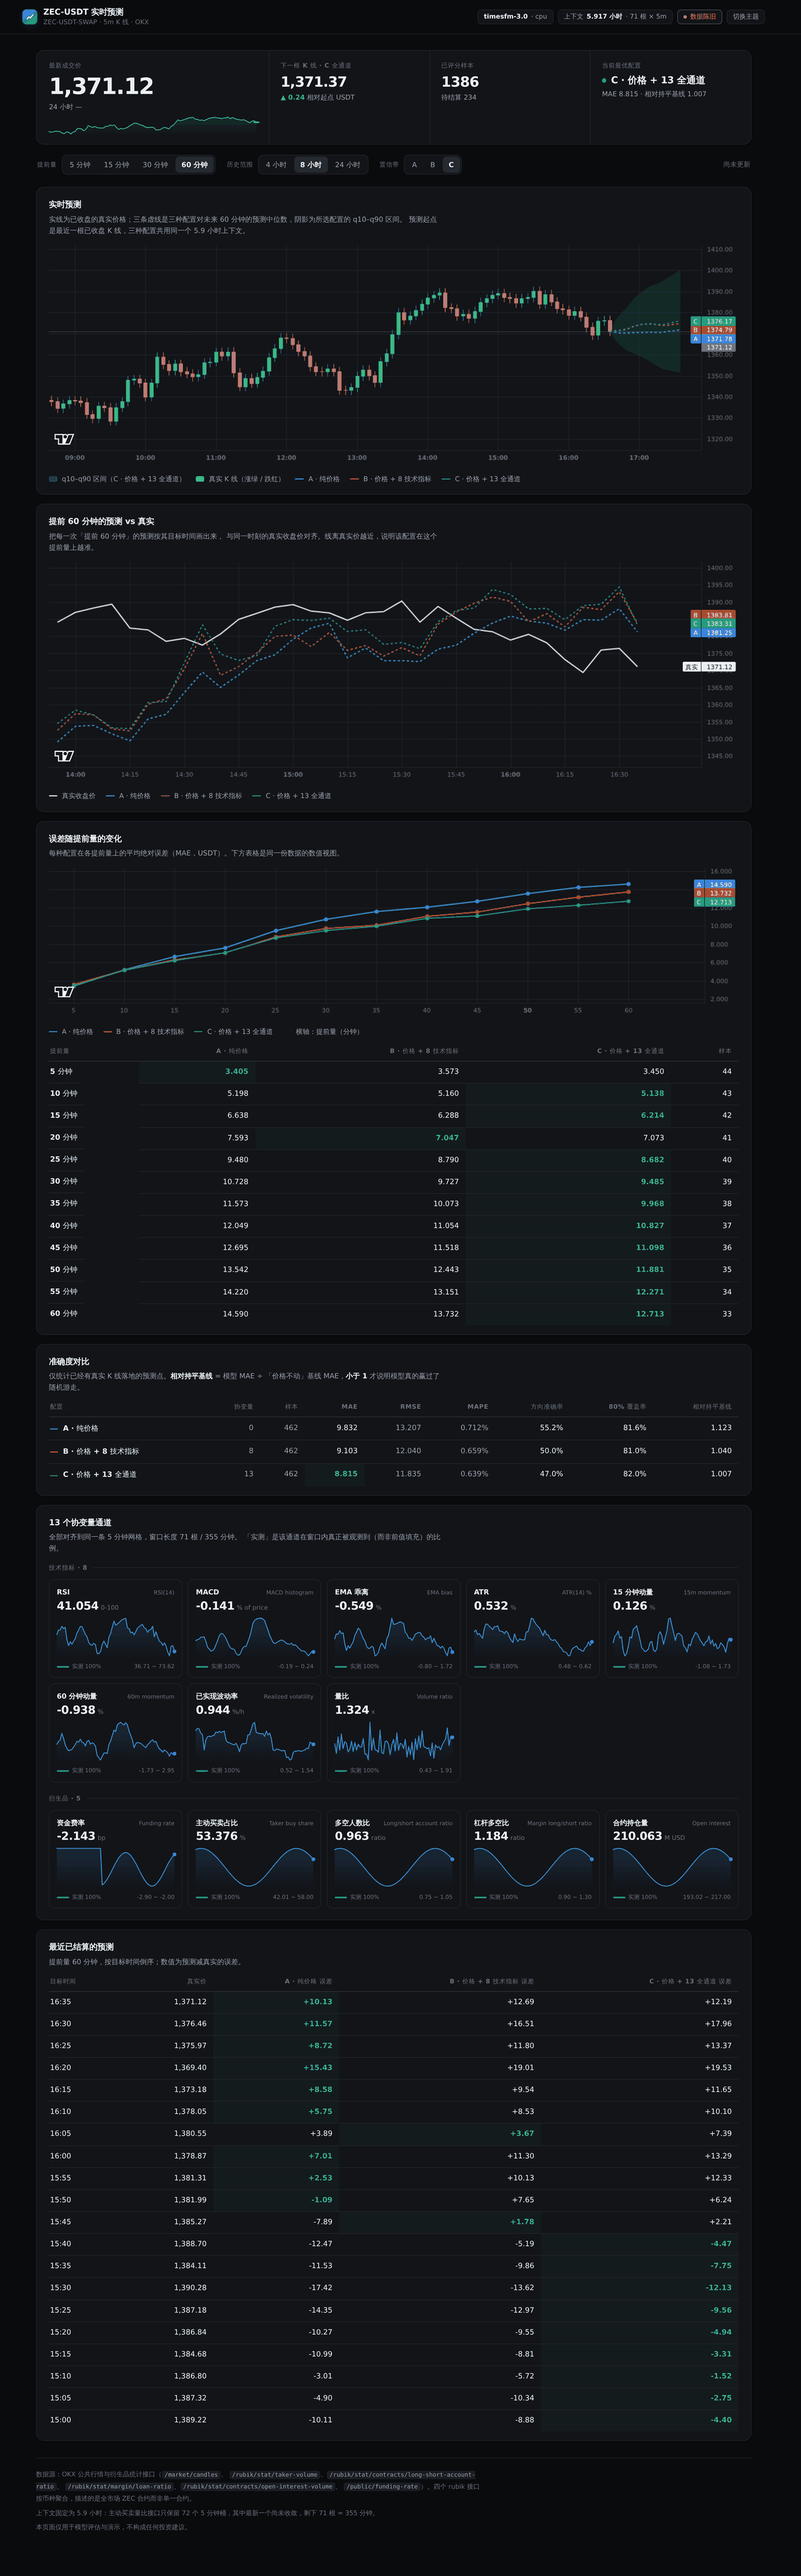
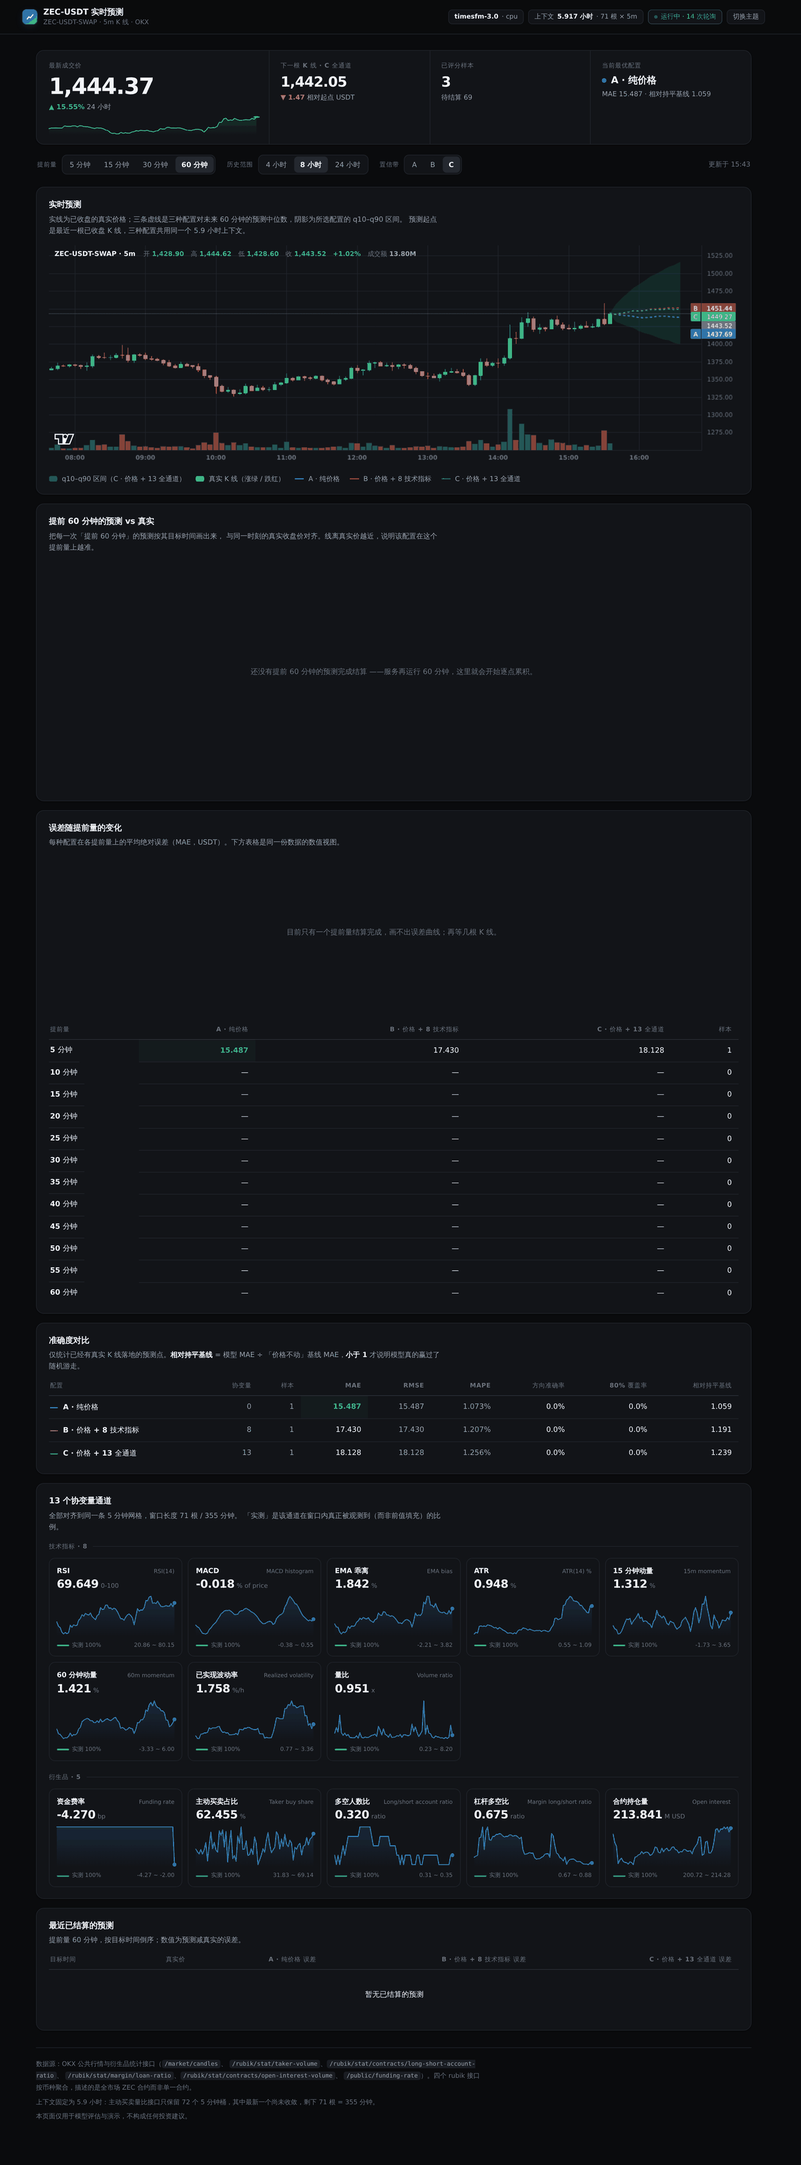
Make the live chart read like an exchange screen, on real market data
Adds what a trading screen carries beyond bare candles, and fixes what
cold start actually looks like.

Volume bars sit under the price on their own overlay scale (bottom 20%),
coloured by the bar's direction, so turnover reads against the candles
without sharing or distorting the price axis. An OHLC strip pinned over
the top-left of the plot tracks the crosshair - open / high / low / close,
percent change and turnover - and falls back to the newest bar when the
pointer leaves, which is what an exchange chart does.

Cold start needed two fixes, both found by finally running this against
real OKX data instead of the replay fixture:

- The predicted-vs-actual card rendered a blank 392px hole until the first
  forecast resolved, with the explanation as a small line underneath. The
  message is now centred in the plot and says what it is waiting for.
- With a single resolved lead time the error chart drew three flat lines
  across the plot, which reads as a result rather than as "not enough data
  yet". Below two points it now shows the waiting state instead.

The README screenshot is now a real one - live ZEC-USDT-SWAP, taken a few
minutes after start, so the accuracy panels are still filling. That is the
honest picture of a cold start, and the populated replay view is kept
alongside it behind a details block for readers who want to see the panels
full.

Verified against the live service: real candles, volume and all 13
[…]

diff --git a/timesfm3-usage/zec-realtime/static/index.html b/timesfm3-usage/zec-realtime/static/index.html
@@ -249,6 +249,29 @@
   .chartbox { position: relative; height: 392px; }
   .chartbox.short { height: 268px; }
   .plot { position: absolute; inset: 0; }
+  /* Cold start is the first thing a new reader sees, so an empty chart says
+     what it is waiting for instead of leaving a blank 392px hole. */
+  .plot-empty {
+    position: absolute; inset: 0; display: grid; place-items: center;
+    padding: 0 28px; text-align: center; line-height: 1.8;
+    color: var(--text-3); font-size: 13px;
+  }
+  .plot-empty[hidden] { display: none; }
+  /* Exchange-style OHLC readout pinned over the top-left of the plot. It
+     tracks the crosshair and falls back to the newest bar. */
+  .ohlc {
+    position: absolute; left: 10px; top: 6px; z-index: 5;
+    display: flex; flex-wrap: wrap; gap: 4px 12px; align-items: baseline;
+    font-size: 11.5px; color: var(--text-2); pointer-events: none;
+    font-variant-numeric: tabular-nums lining-nums;
+  }
+  .ohlc .pair { font-weight: 600; color: var(--text-1); font-size: 12px; margin-right: 2px; }
+  .ohlc .f { display: inline-flex; gap: 4px; }
+  .ohlc .f b { font-weight: 600; }
+  .ohlc .k { color: var(--text-3); font-weight: 500; }
+  .ohlc .up b, .ohlc .up { color: var(--good); }
+  .ohlc .down b, .ohlc .down { color: var(--critical); }
+  @media (max-width: 640px) { .ohlc { font-size: 10.5px; gap: 2px 8px; } }
 
   .legend { display: flex; flex-wrap: wrap; gap: 7px 18px; margin: 14px 0 2px; }
   .legend .item {
@@ -495,7 +518,11 @@
         <span id="horizonMin">60</span> 分钟的预测中位数，阴影为所选配置的 q10–q90 区间。
         预测起点是最近一根已收盘 K 线，三种配置共用同一个 5.9 小时上下文。</p>
     </div>
-    <div class="chartbox"><div id="liveChart" class="plot"></div><div class="tt" id="liveTT"></div></div>
+    <div class="chartbox">
+      <div id="liveChart" class="plot"></div>
+      <div class="ohlc" id="liveOHLC"></div>
+      <div class="tt" id="liveTT"></div>
+    </div>
     <div class="legend" id="liveLegend"></div>
   </section>
 
@@ -863,7 +890,90 @@ function attachTooltip(chart, boxId, rows, format, titleFormat) {
   });
 }
 
+/** Swaps a plot for a centred message, or back. */
+function setPlotEmpty(plotId, message) {
+  const host = document.getElementById(plotId);
+  if (!host) return;
+  const box = host.parentNode;
+  let note = box.querySelector(".plot-empty");
+  if (message) {
+    if (!note) {
+      note = document.createElement("div");
+      note.className = "plot-empty";
+      box.appendChild(note);
+    }
+    note.textContent = message;
+    note.hidden = false;
+    host.style.visibility = "hidden";
+  } else {
+    if (note) note.hidden = true;
+    host.style.visibility = "";
+  }
+}
+
 /* ------------------------------------------------------------ live chart -- */
+
+/** Formats turnover the way an exchange does: 1.2M rather than 1204312.44. */
+function fmtVolume(v) {
+  if (v == null || !isFinite(v)) return "—";
+  const abs = Math.abs(v);
+  if (abs >= 1e9) return (v / 1e9).toFixed(2) + "B";
+  if (abs >= 1e6) return (v / 1e6).toFixed(2) + "M";
+  if (abs >= 1e3) return (v / 1e3).toFixed(1) + "K";
+  return v.toFixed(0);
+}
+
+/** Paints the O/H/L/C strip over the plot. */
+function paintOhlc(bar, volumeValue) {
+  const host = document.getElementById("liveOHLC");
+  if (!host) return;
+  host.textContent = "";
+  if (!bar || bar.open === undefined) return;
+
+  const up = bar.close >= bar.open;
+  const cls = up ? "up" : "down";
+  const pct = bar.open ? (bar.close / bar.open - 1) * 100 : 0;
+
+  const pair = document.createElement("span");
+  pair.className = "pair";
+  const status = state.data && state.data.status;
+  pair.textContent = (status ? status.inst_id : "ZEC-USDT-SWAP")
+    + " · " + (status ? status.bar : "5m");
+  host.appendChild(pair);
+
+  for (const [key, value] of [["开", bar.open], ["高", bar.high],
+                              ["低", bar.low], ["收", bar.close]]) {
+    const f = document.createElement("span");
+    f.className = "f " + cls;
+    const k = document.createElement("span");
+    k.className = "k";
+    k.textContent = key;
+    const b = document.createElement("b");
+    b.textContent = fmtPrice(value);
+    f.append(k, b);
+    host.appendChild(f);
+  }
+
+  const change = document.createElement("span");
+  change.className = "f " + cls;
+  const cb = document.createElement("b");
+  cb.textContent = (pct >= 0 ? "+" : "") + pct.toFixed(2) + "%";
+  change.appendChild(cb);
+  host.appendChild(change);
+
+  if (volumeValue != null) {
+    const vol = document.createElement("span");
+    vol.className = "f";
+    const k = document.createElement("span");
+    k.className = "k";
+    k.textContent = "成交额";
+    const b = document.createElement("b");
+    b.textContent = fmtVolume(volumeValue);
+    vol.append(k, b);
+    host.appendChild(vol);
+  }
+}
+
 function buildLiveChart() {
   const host = document.getElementById("liveChart");
   const chart = LWC.createChart(host, withTickFormatter(chartOptions()));
@@ -880,6 +990,15 @@ function buildLiveChart() {
     priceLineStyle: LWC.LineStyle.Dotted,
     priceFormat: { type: "price", precision: 2, minMove: 0.01 },
   });
+  // Turnover sits on its own overlay scale in the bottom quarter, so it reads
+  // under the price without sharing - or distorting - the price axis.
+  const volume = chart.addSeries(LWC.HistogramSeries, {
+    priceFormat: { type: "volume" },
+    priceScaleId: "volume",
+    lastValueVisible: false, priceLineVisible: false,
+  });
+  volume.priceScale().applyOptions({ scaleMargins: { top: 0.8, bottom: 0 } });
+  chart.priceScale("right").applyOptions({ scaleMargins: { top: 0.08, bottom: 0.26 } });
   const lines = {};
   for (const c of configs()) {
     lines[c.id] = chart.addSeries(LWC.LineSeries, {
@@ -891,7 +1010,15 @@ function buildLiveChart() {
       priceFormat: { type: "price", precision: 2, minMove: 0.01 },
     });
   }
-  charts.live = { chart, band, candles, lines, fitted: false };
+  charts.live = { chart, band, candles, volume, lines, fitted: false };
+
+  // The readout follows the crosshair and falls back to the newest bar, which
+  // is what an exchange chart does when the pointer leaves the plot.
+  chart.subscribeCrosshairMove((param) => {
+    const bar = param.time ? param.seriesData.get(candles) : null;
+    const vol = param.time ? param.seriesData.get(volume) : null;
+    paintOhlc(bar, vol ? vol.value : null);
+  });
 
   attachTooltip(chart, "liveTT", () => {
     const rows = [{ series: candles, label: "真实收盘价", color: cssVar("--text-1") }];
@@ -914,6 +1041,11 @@ function renderLive() {
   h.candles.setData(bars.map((b) => ({
     time: toSec(b.ts), open: b.open, high: b.high, low: b.low, close: b.close,
   })));
+  h.volume.setData(bars.map((b) => ({
+    time: toSec(b.ts), value: b.volume_quote,
+    color: withAlpha(b.close >= b.open ? cssVar("--good") : cssVar("--critical"), 0.4),
+  })));
+  paintOhlc(bars[bars.length - 1], bars[bars.length - 1].volume_quote);
 
   const live = d.live || {};
   const origin = bars[bars.length - 1];
@@ -1007,14 +1139,13 @@ function renderTrack() {
       charts.track.actual.setData([]);
       for (const c of configs()) charts.track.lines[c.id].setData([]);
     }
+    setPlotEmpty("trackChart",
+      `还没有提前 ${leadMinutes()} 分钟的预测完成结算 ——`
+      + `服务再运行 ${leadMinutes()} 分钟，这里就会开始逐点累积。`);
     host.textContent = "";
-    const msg = document.createElement("div");
-    msg.className = "item static";
-    msg.textContent = `还没有提前 ${leadMinutes()} 分钟的预测完成结算，`
-      + `服务运行 ${leadMinutes()} 分钟后这里会开始出现数据。`;
-    host.appendChild(msg);
     return;
   }
+  setPlotEmpty("trackChart", null);
 
   const h = charts.track || buildTrackChart();
   h.actual.setData(stamps.map((t) => ({ time: toSec(t), value: byTs.get(t).actual })));
@@ -1069,18 +1200,35 @@ function buildMaeChart() {
 
 function renderMae() {
   const metrics = state.data.metrics || [];
+  const series = metrics.map((m) => m.by_step
+    .filter((s) => s.mae != null && isFinite(s.mae))
+    .map((s) => ({ time: s.minutes, value: s.mae })));
+  // One resolved lead time draws a flat line across the plot, which reads as a
+  // result rather than as "not enough data yet". Wait for a second point.
+  const longest = series.reduce((n, pts) => Math.max(n, pts.length), 0);
+
+  if (longest < 2) {
+    if (charts.mae) {
+      for (const c of configs()) charts.mae.lines[c.id].setData([]);
+    }
+    setPlotEmpty("maeChart", longest === 0
+      ? "还没有预测完成结算 —— 第一根 5 分钟 K 线收盘后，这里会开始出现曲线。"
+      : "目前只有一个提前量结算完成，画不出误差曲线；再等几根 K 线。");
+    document.getElementById("maeLegend").textContent = "";
+    renderStepTable();
+    return;
+  }
+  setPlotEmpty("maeChart", null);
+
   const h = charts.mae || buildMaeChart();
   let any = false;
-  for (const m of metrics) {
-    const series = h.lines[m.config_id];
-    if (!series) continue;
-    series.applyOptions({ visible: visible("mae", m.config_id) });
-    const points = m.by_step
-      .filter((s) => s.mae != null && isFinite(s.mae))
-      .map((s) => ({ time: s.minutes, value: s.mae }));
-    if (points.length) any = true;
-    series.setData(points);
-  }
+  metrics.forEach((m, i) => {
+    const line = h.lines[m.config_id];
+    if (!line) return;
+    line.applyOptions({ visible: visible("mae", m.config_id) });
+    if (series[i].length) any = true;
+    line.setData(series[i]);
+  });
   if (any && !h.fitted) { h.chart.timeScale().fitContent(); h.fitted = true; }
 
   renderLegend("maeLegend", metrics.map((m) => ({
@@ -1113,6 +1261,13 @@ function repaintCharts() {
         wickUpColor: cssVar("--good"), wickDownColor: cssVar("--critical"),
         priceLineColor: cssVar("--text-3"),
       });
+    }
+    if (h.volume && state.data) {
+      const bars = state.data.bars || [];
+      h.volume.setData(bars.map((b) => ({
+        time: toSec(b.ts), value: b.volume_quote,
+        color: withAlpha(b.close >= b.open ? cssVar("--good") : cssVar("--critical"), 0.4),
+      })));
     }
     if (h.actual) h.actual.applyOptions({ color: cssVar("--text-1") });
     if (h.lines) {

diff --git a/timesfm3-usage/zec-realtime/README.md b/timesfm3-usage/zec-realtime/README.md
@@ -10,9 +10,17 @@ python -m zecfm            # http://127.0.0.1:8000
 
 ![仪表盘](docs/dashboard.png)
 
-> 上图为**回放数据**下的深色模式截图（确定性合成行情跑满 45 根 K 线，轮询已停止，所以状态灯是
-> 「数据陈旧」），目的是展示各面板填满之后的样子。实盘启动时准确度面板是空的，
-> 随服务运行逐步累积。
+> 上图是**实盘截图**：真实的 ZEC-USDT-SWAP 行情，服务刚启动几分钟，所以准确度面板还基本是空的 ——
+> 这正是冷启动应有的样子（下面「没有回填」一节解释了为什么）。
+>
+> 下图是**回放数据**（确定性合成行情跑满 45 根 K 线，轮询已停止，所以状态灯是「数据陈旧」），
+> 用来看各面板填满之后长什么样。
+>
+> <details><summary>展开：面板填满后的样子</summary>
+>
+> ![面板填满](docs/dashboard-filled.png)
+>
+> </details>
 
 ### 界面
 
@@ -40,6 +48,10 @@ python -m zecfm            # http://127.0.0.1:8000
 | 实时预测 | `createChart` + `CandlestickSeries` | 真实 K 线 + 三条预测虚线 |
 | 提前 N 分钟 vs 真实 | `createChart` + `LineSeries` | 真实线 vs 三条预测线 |
 | 误差随提前量 | `createOptionsChart` | 横轴是提前量不是时钟，所以用库自带的**数值横轴**图，而不是把时间轴硬掰成别的东西 |
+
+盘面该有的都在：真实红绿 K 线、底部**成交量柱**（涨绿跌红，独立的叠加价格轴，占底部 20%，
+不干扰主价格轴）、左上角跟随十字光标的 **OHLC 信息栏**（开 / 高 / 低 / 收 / 涨跌幅 / 成交额，
+光标移开时回落到最新一根）。
 
 两处需要说明的实现细节：
 
